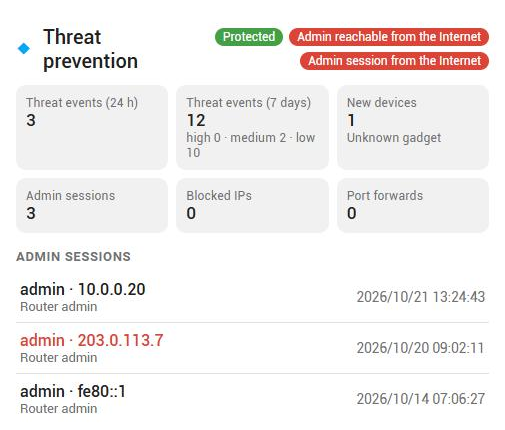
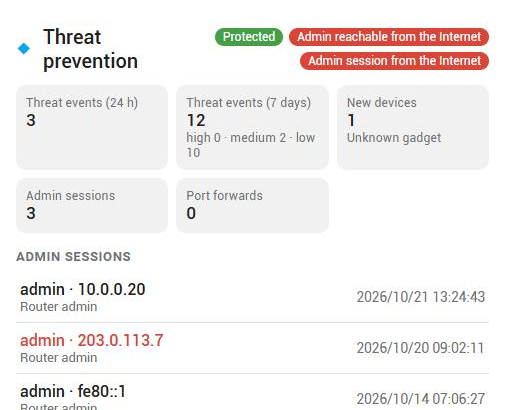
Access control card, split from the threat prevention card

diff --git a/custom_components/synology_srm_plus/www/synology-srm-card.js b/custom_components/synology_srm_plus/www/synology-srm-card.js
@@ -4,6 +4,7 @@
  *   type: custom:synology-srm-router-card     (router health: CPU, memory, traffic, Wi-Fi, links, storage)
  *   type: custom:synology-srm-clients-card    (every client with signal, link rate, traffic and details)
  *   type: custom:synology-srm-threat-card     (threat prevention: events, new devices, admin sessions, exposure)
+ *   type: custom:synology-srm-access-card    (access control: blocked IPs, Wi-Fi block list, MAC filters, blocked devices)
  *   type: custom:synology-srm-safeaccess-card (Safe Access / parental control per profile)
  *
  * Both cards find the integration's entities by themselves. Optional `device_id`
@@ -21,7 +22,7 @@ const I18N = {
     search: 'Search a client…', all: 'All', sort: 'Sort', name: 'Name', download: 'Download',
     upload: 'Upload', nothing: 'No client', no_data: 'No Synology SRM Plus data found.', offline: 'Offline', ip: 'IP address',
     offline_clients: 'Offline clients', last_seen: 'Last seen', ago: 'ago', router_throughput: 'Router throughput',
-    devices: 'devices', ports: 'Ports', usb: 'USB storage', no_link: 'no link', security: 'Security', threat_prevention: 'Threat prevention', profiles: 'profiles', online: 'online', mac_filter_list: 'Wi-Fi block list', mac_filter_profiles: 'Custom MAC filters', blocked_devices: 'Blocked devices', mac_filter_networks: 'Wi-Fi with MAC filter', threats: 'Threat events',
+    devices: 'devices', ports: 'Ports', usb: 'USB storage', no_link: 'no link', security: 'Security', threat_prevention: 'Threat prevention', profiles: 'profiles', online: 'online', mac_filter_list: 'Wi-Fi block list', mac_filter_profiles: 'Custom MAC filters', blocked_devices: 'Blocked devices', mac_filter_networks: 'Wi-Fi with MAC filter', access_control: 'Access control', auto_block: 'Auto-block', attempts: 'attempts', per: 'in', min: 'min', no_expiry: 'no expiry', storm: 'Broadcast-storm prevention', max_pps: 'packets/s max', on: 'on', off: 'off', ip_blocked: 'Blocked IP addresses', block_list_hint: 'applies to every SSID', threats: 'Threat events',
     last24: '24 h', last7: '7 days', new_devices: 'New devices', admin_sessions: 'Admin sessions', blocked_ips: 'Blocked IPs',
     forwards: 'Port forwards', protected: 'Protected', unprotected: 'Not protected', exposed: 'Admin reachable from the Internet',
     external_session: 'Admin session from the Internet', safe: 'Safe Access', internet_time: 'Internet time',
@@ -45,7 +46,7 @@ const I18N = {
     search: 'Rechercher un client…', all: 'Tous', sort: 'Tri', name: 'Nom', download: 'Téléchargement',
     upload: 'Envoi', nothing: 'Aucun client', no_data: 'Aucune donnée Synology SRM Plus trouvée.', offline: 'Hors ligne', ip: 'Adresse IP',
     offline_clients: 'Clients hors ligne', last_seen: 'Vu il y a', ago: '', router_throughput: 'Débit du routeur',
-    devices: 'appareils', ports: 'Ports', usb: 'Stockage USB', no_link: 'pas de lien', security: 'Sécurité', threat_prevention: 'Protection contre les menaces', profiles: 'profils', online: 'en ligne', mac_filter_list: 'Liste de blocage Wi-Fi', mac_filter_profiles: 'Filtres MAC perso', blocked_devices: 'Appareils bloqués', mac_filter_networks: 'Wi-Fi avec filtrage MAC', threats: 'Menaces détectées',
+    devices: 'appareils', ports: 'Ports', usb: 'Stockage USB', no_link: 'pas de lien', security: 'Sécurité', threat_prevention: 'Protection contre les menaces', profiles: 'profils', online: 'en ligne', mac_filter_list: 'Liste de blocage Wi-Fi', mac_filter_profiles: 'Filtres MAC perso', blocked_devices: 'Appareils bloqués', mac_filter_networks: 'Wi-Fi avec filtrage MAC', access_control: "Contrôle d'accès", auto_block: 'Blocage auto', attempts: 'tentatives', per: 'en', min: 'min', no_expiry: 'sans expiration', storm: 'Prévention des tempêtes de diffusion', max_pps: 'paquets/s max', on: 'activée', off: 'désactivée', ip_blocked: 'Adresses IP bloquées', block_list_hint: 'valable pour tous les SSID', threats: 'Menaces détectées',
     last24: '24 h', last7: '7 jours', new_devices: 'Nouveaux appareils', admin_sessions: "Sessions d'administration", blocked_ips: 'IP bloquées',
     forwards: 'Redirections de ports', protected: 'Protégé', unprotected: 'Non protégé', exposed: "Administration joignable depuis Internet",
     external_session: "Session d'administration depuis Internet", safe: 'Safe Access', internet_time: 'Temps sur internet',
@@ -632,11 +633,6 @@ class SynologySrmThreatCard extends SrmEntityCard {
 
     const tile = (label, st, sub = '') =>
       st ? `<div class="tile" data-entity="${esc(st.entity_id)}"><div class="k">${esc(label)}</div><div class="v">${esc(st.state)}</div>${sub ? `<div class="s">${sub}</div>` : ''}</div>` : '';
-    const names = (st) => (st ? (st.attributes.devices || []).map((d) => esc(d.name || d.mac || '?')).join(', ') : '');
-    const filterOn = (found.wifi_mac_filter || []).filter((st) => st.state === 'on');
-    const macNetworks = (found.wifi_mac_filter || []).length
-      ? `<div class="tile" data-entity="${esc(found.wifi_mac_filter[0].entity_id)}"><div class="k">${esc(t.mac_filter_networks)}</div><div class="v">${filterOn.length}</div><div class="s">${filterOn.map((st) => esc(st.attributes.network)).join(', ')}</div></div>`
-      : '';
     const t24 = first('threat_events_24h');
     const t7 = first('threat_events_7d');
     const lv = t7 ? t7.attributes : {};
@@ -648,12 +644,7 @@ class SynologySrmThreatCard extends SrmEntityCard {
       tile(`${t.threats} (${t.last7})`, t7, esc(levels)) +
       tile(t.new_devices, nd, newNames) +
       tile(t.admin_sessions, first('admin_sessions')) +
-      tile(t.blocked_ips, first('blocked_ips')) +
-      tile(t.forwards, first('port_forward_rules')) +
-      tile(t.blocked_devices, first('blocked_devices'), names(first('blocked_devices'))) +
-      tile(t.mac_filter_list, first('mac_filter_devices'), names(first('mac_filter_devices'))) +
-      tile(t.mac_filter_profiles, first('mac_filter_profiles')) +
-      macNetworks;
+      tile(t.forwards, first('port_forward_rules'));
 
     const sessionsSt = first('admin_sessions');
     const sessions = sessionsSt ? (sessionsSt.attributes.sessions || []).slice(0, 8) : [];
@@ -669,6 +660,60 @@ class SynologySrmThreatCard extends SrmEntityCard {
         <div class="head"><ha-icon icon="mdi:shield-check"></ha-icon><div><div class="title">${esc(this._config.title || t.threat_prevention)}</div></div><div class="badges">${badges}</div></div>
         <div class="grid">${tiles}</div>
         ${sessionRows ? `<h3>${esc(t.admin_sessions)}</h3>${sessionRows}` : ''}
+      </ha-card>`;
+  }
+}
+
+
+/* ------------------------------------------------------------------ access control card */
+
+class SynologySrmAccessCard extends SrmEntityCard {
+  _render(found) {
+    const hass = this._hass;
+    const t = strings(hass);
+    const first = (key) => (found[key] || [])[0];
+    const devs = (st) => (st && Array.isArray(st.attributes.devices) ? st.attributes.devices : []);
+    const names = (st) => devs(st).map((d) => esc(d.name || d.mac || '?')).join(', ');
+    const tile = (label, st, sub = '') =>
+      st ? `<div class="tile" data-entity="${esc(st.entity_id)}"><div class="k">${esc(label)}</div><div class="v">${esc(st.state)}</div>${sub ? `<div class="s">${sub}</div>` : ''}</div>` : '';
+
+    const ips = first('blocked_ips');
+    const a = ips ? ips.attributes : {};
+    const abLine = ips && a.auto_block_enabled !== undefined
+      ? `${esc(t.auto_block)} ${a.auto_block_enabled ? esc(t.on) : esc(t.off)}${a.failed_attempts != null ? ` · ${esc(a.failed_attempts)} ${esc(t.attempts)} ${esc(t.per)} ${esc(a.within_minutes)} ${esc(t.min)}` : ''}${a.expire_days === 0 ? ` · ${esc(t.no_expiry)}` : a.expire_days ? ` · ${esc(a.expire_days)} d` : ''}`
+      : '';
+    const blockList = first('mac_filter_devices');
+    const storm = blockList ? blockList.attributes : {};
+    const stormLine = storm.broadcast_storm_prevention !== undefined && storm.broadcast_storm_prevention !== null
+      ? `${esc(t.storm)}: ${storm.broadcast_storm_prevention ? esc(t.on) : esc(t.off)}${storm.max_broadcast_packets_per_second ? ` (${esc(storm.max_broadcast_packets_per_second)} ${esc(t.max_pps)})` : ''}`
+      : '';
+    const filters = found.wifi_mac_filter || [];
+    const filterOn = filters.filter((st) => st.state === 'on');
+    const networksTile = filters.length
+      ? `<div class="tile" data-entity="${esc(filters[0].entity_id)}"><div class="k">${esc(t.mac_filter_networks)}</div><div class="v">${filterOn.length}</div><div class="s">${filterOn.map((st) => esc(st.attributes.network)).join(', ') || filters.map((st) => esc(st.attributes.network)).join(', ')}</div></div>`
+      : '';
+    const tiles =
+      tile(t.ip_blocked, ips, esc(abLine)) +
+      tile(t.mac_filter_list, blockList, names(blockList) || esc(t.block_list_hint)) +
+      tile(t.mac_filter_profiles, first('mac_filter_profiles')) +
+      networksTile +
+      tile(t.blocked_devices, first('blocked_devices'), names(first('blocked_devices')));
+
+    const row = (title, meta) =>
+      `<div class="row" style="grid-template-columns:1fr auto;cursor:default"><div style="min-width:0"><div class="nm">${title}</div><div class="meta">${meta}</div></div></div>`;
+    const rows =
+      devs(blockList).map((d) => row(esc(d.name || d.mac), `${esc(d.mac || '')} · ${esc(t.mac_filter_list)}`)).join('') +
+      devs(first('blocked_devices')).map((d) => row(esc(d.name || d.mac), `${esc(d.ip || d.mac || '')} · ${esc(t.blocked_devices)}`)).join('');
+    const addresses = Array.isArray(a.addresses) ? a.addresses : [];
+    const addressRows = addresses
+      .map((x) => row(esc(typeof x === 'string' ? x : x.ip || x.address || JSON.stringify(x)), esc(t.ip_blocked)))
+      .join('');
+
+    this.shadowRoot.innerHTML = `<style>${STYLE}</style>
+      <ha-card>
+        <div class="head"><ha-icon icon="mdi:shield-lock"></ha-icon><div><div class="title">${esc(this._config.title || t.access_control)}</div><div class="sub">${stormLine}</div></div></div>
+        <div class="grid">${tiles}</div>
+        ${rows || addressRows ? `<div style="margin-top:8px">${addressRows}${rows}</div>` : ''}
       </ha-card>`;
   }
 }
@@ -731,6 +776,7 @@ class SynologySrmSafeAccessCard extends SrmEntityCard {
   }
 }
 
+if (!customElements.get('synology-srm-access-card')) customElements.define('synology-srm-access-card', SynologySrmAccessCard);
 if (!customElements.get('synology-srm-threat-card')) customElements.define('synology-srm-threat-card', SynologySrmThreatCard);
 if (!customElements.get('synology-srm-safeaccess-card')) customElements.define('synology-srm-safeaccess-card', SynologySrmSafeAccessCard);
 if (!customElements.get('synology-srm-router-card')) customElements.define('synology-srm-router-card', SynologySrmRouterCard);
@@ -738,6 +784,11 @@ if (!customElements.get('synology-srm-clients-card')) customElements.define('syn
 
 window.customCards = window.customCards || [];
 window.customCards.push(
+  {
+    type: 'synology-srm-access-card',
+    name: 'Synology SRM – Access control',
+    description: 'Blocked IPs (auto-block), Wi-Fi block list, custom MAC filters and blocked devices.',
+  },
   {
     type: 'synology-srm-threat-card',
     name: 'Synology SRM – Threat prevention',

diff --git a/README.md b/README.md
@@ -41,15 +41,15 @@ If you prefer one entity per device, use the **presence tracking option** (*Conf
 
 ## Dashboard cards
 
-Four cards are included and loaded automatically (no resource to add):
+Five cards are included and loaded automatically (no resource to add):
 
 | Router card | | Clients card |
 |---|---|---|
 | ![Router card](docs/images/router-card.png) | ![Router card, details](docs/images/router-card-details.png) | ![Clients card](docs/images/clients-card.png) |
 
-| Threat prevention card | Safe Access card |
-|---|---|
-| ![Threat prevention card](docs/images/threat-card.png) | ![Safe Access card](docs/images/safeaccess-card.png) |
+| Threat prevention card | Access control card | Safe Access card |
+|---|---|---|
+| ![Threat prevention card](docs/images/threat-card.png) | ![Access control card](docs/images/access-card.png) | ![Safe Access card](docs/images/safeaccess-card.png) |
 
 *Rendered with neutral sample data. In Home Assistant the client icons are Material Design icons (the emoji here are stand-ins used by the preview harness) and the colors follow your theme.*
 
@@ -67,6 +67,10 @@ max_height: 500          # optional, px
 
 ```yaml
 type: custom:synology-srm-threat-card     # threat prevention: events, new devices, admin sessions, exposure
+```
+
+```yaml
+type: custom:synology-srm-access-card     # access control: blocked IPs (auto-block), Wi-Fi block list, MAC filters, blocked devices
 ```
 
 ```yaml

diff --git a/CHANGELOG.md b/CHANGELOG.md
@@ -2,6 +2,7 @@
 
 ## 0.5.5
 
+- New *Access control* card (blocked IPs with the auto-block settings, Wi-Fi block list, custom MAC filters, blocked devices), split from the *Threat prevention* card.
 - Wi-Fi MAC filtering sensors renamed to what SRM calls them: *Wi-Fi system block list* (applies to every SSID and takes precedence over custom filters; also holds the devices blocked by broadcast-storm prevention, whose settings are attributes) and *Custom MAC filters*.
 - *Blocked IP addresses*: the auto-block settings (enabled, failed attempts, window, expiry) and the blocked addresses are now attributes of the sensor.
 
